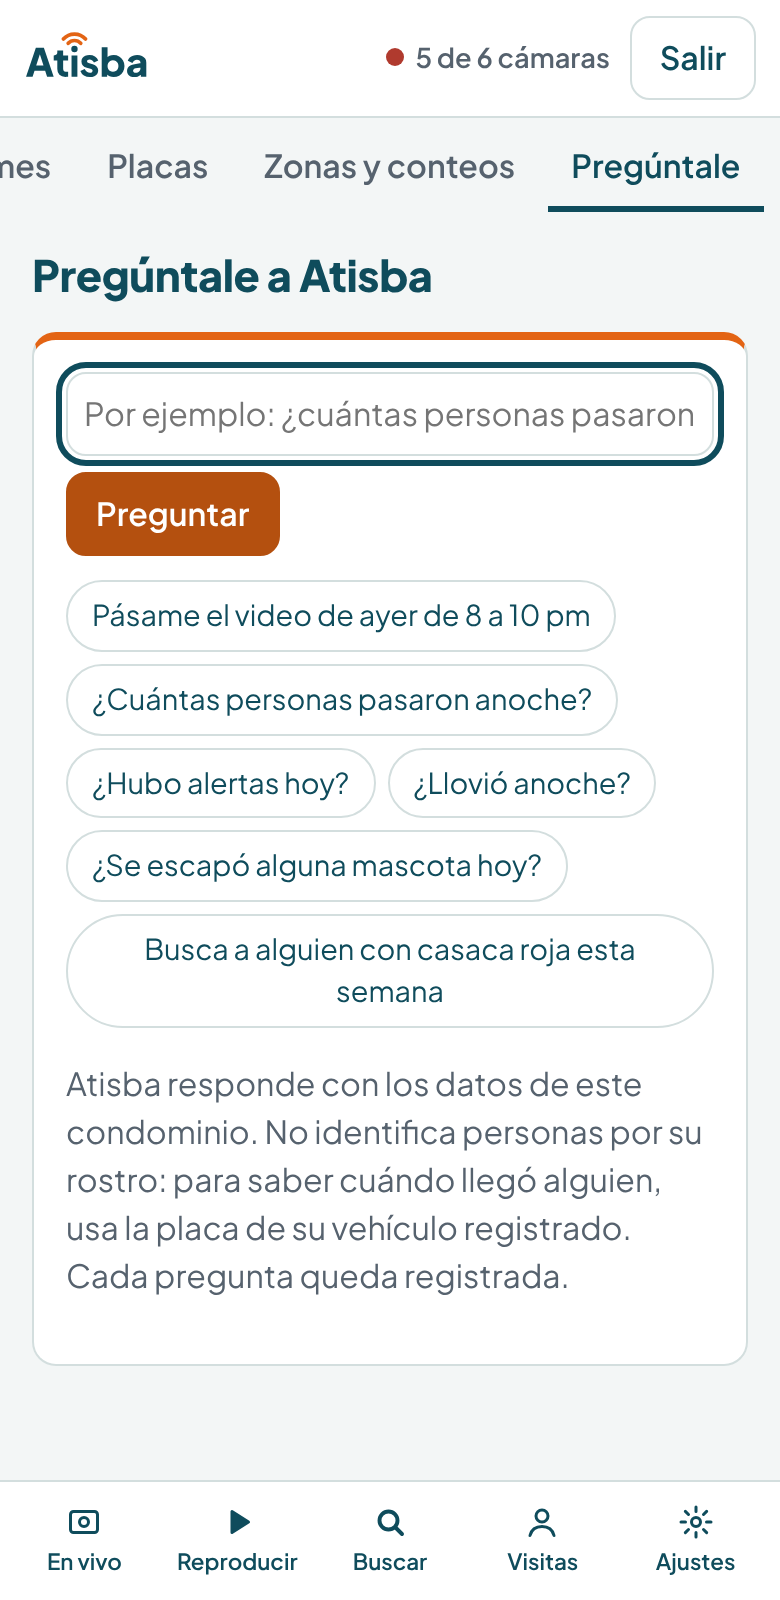
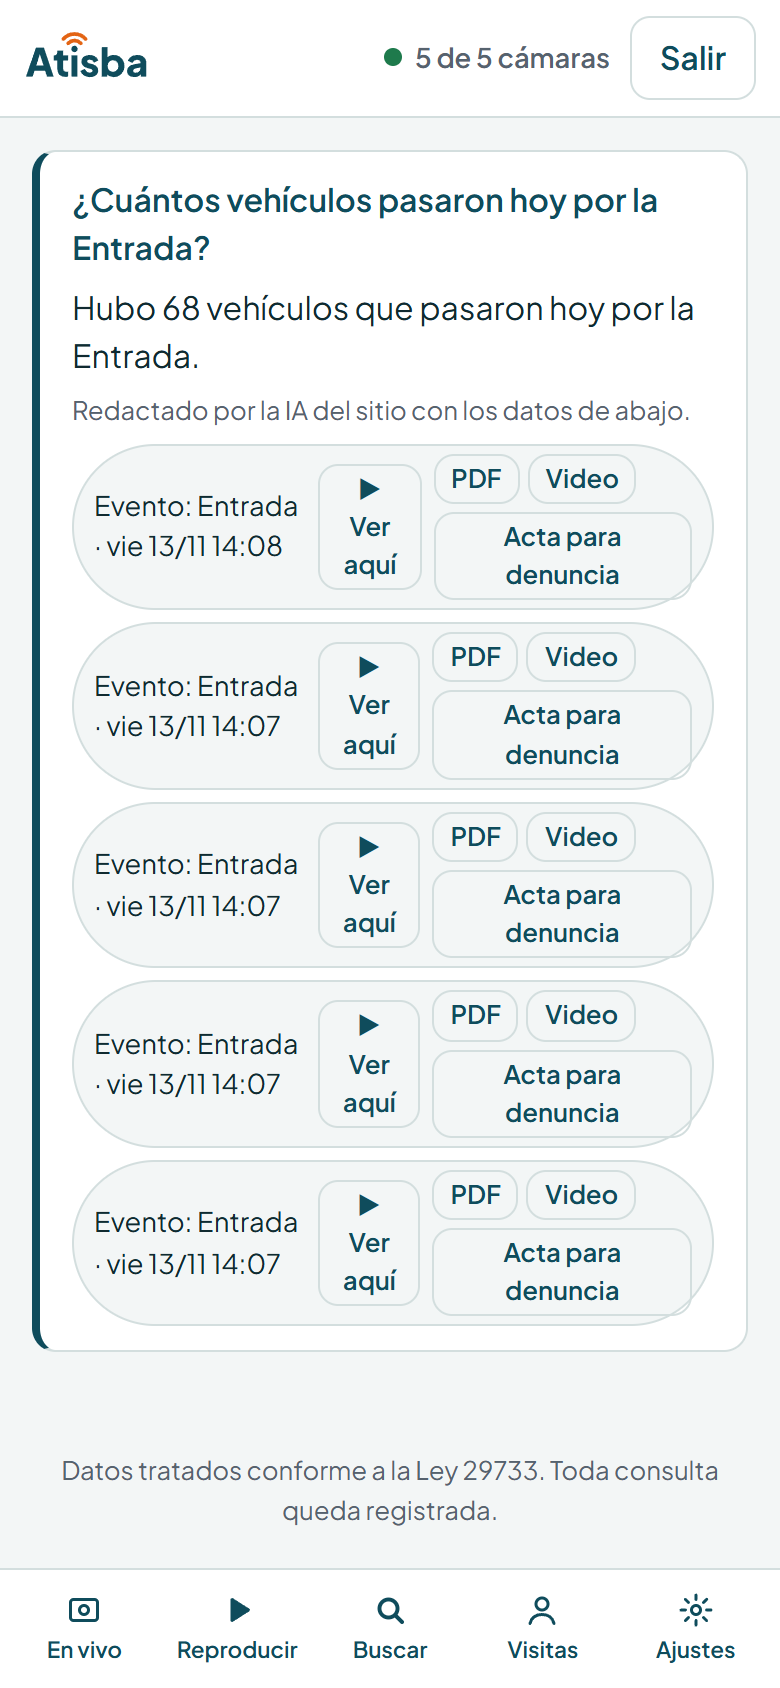
Usa capturas reales anonimizadas y precisa lo del reconocimiento facial

diff --git a/README.md b/README.md
@@ -1,6 +1,6 @@
 # Caso de estudio: videovigilancia inteligente sobre cámaras existentes
 
-> Este caso no incluye código, precios, plan de negocio, nombres de clientes ni imágenes de cámaras reales. El repositorio del producto es privado.
+> Este caso no incluye código, precios, plan de negocio ni nombres de clientes; las capturas tienen el video pixelado y las placas anonimizadas. El repositorio del producto es privado.
 
 **Proyecto:** Atisba Garita (prototipo, 2026) · **Mi rol:** Product Owner y desarrollo asistido por IA · **Estado:** prototipo probado en laboratorio y en una PC servidor real
 
@@ -32,11 +32,11 @@ flowchart LR
   D -->|aviso con foto| H[Celular del vigilante o la administración]
 ```
 
-<img src="img/en-vivo.png" alt="Vista En vivo con avisos de placa en alerta y cámara sin señal (datos de ejemplo)" width="760">
+<img src="img/autos.png" alt="Vista En vivo con el mosaico de cámaras y los vehículos detectados (video pixelado)" width="760">
 
-<img src="img/preguntale.png" alt="Pregúntale a Atisba en el celular (datos de ejemplo)" width="300">
+<img src="img/preguntale.png" alt="Pregúntale a Atisba: respuesta de la IA con los eventos que la respaldan" width="300">
 
-*Capturas con escenas dibujadas y datos de ejemplo del laboratorio.*
+*Capturas reales de la prueba en la PC servidor, con el video pixelado y las placas reemplazadas por «ABC-123».*
 
 **Decisión clave:** el video y los datos personales **no salen del local**. La IA corre en la GPU del equipo y el acceso desde fuera pasa por un relé que no descifra el contenido.
 
@@ -46,7 +46,7 @@ flowchart LR
 2. **Construcción con IA y verificación propia:** usé agentes de IA para programar y revisar código. Ningún cambio se integró sin pruebas automatizadas, y la integración continua revisa estilo, tipos, seguridad, dependencias vulnerables y secretos en cada cambio.
 3. **Laboratorio sin hardware:** armé un DVR simulado para probar todo el flujo sin cámaras reales y repetir las pruebas cuantas veces hiciera falta.
 4. **Prueba real:** instalé el sistema en una PC servidor con GPU y un DVR real para comprobar que lo del laboratorio funcionaba en la práctica.
-5. **Cumplimiento desde el diseño:** elegí solo componentes con licencias aptas para uso comercial (MIT, Apache, BSD) y dejé **desactivado el reconocimiento facial**, en línea con la guía de la Autoridad Nacional de Protección de Datos Personales (Ley 29733).
+5. **Cumplimiento desde el diseño:** elegí solo componentes con licencias aptas para uso comercial (MIT, Apache, BSD) y el sistema **no hace reconocimiento facial**: no identifica a nadie. El módulo de rostros es opcional y solo para residentes y trabajadores que lo autoricen, en línea con la guía de la Autoridad Nacional de Protección de Datos Personales (Ley 29733).
 
 ## Resultados
 
